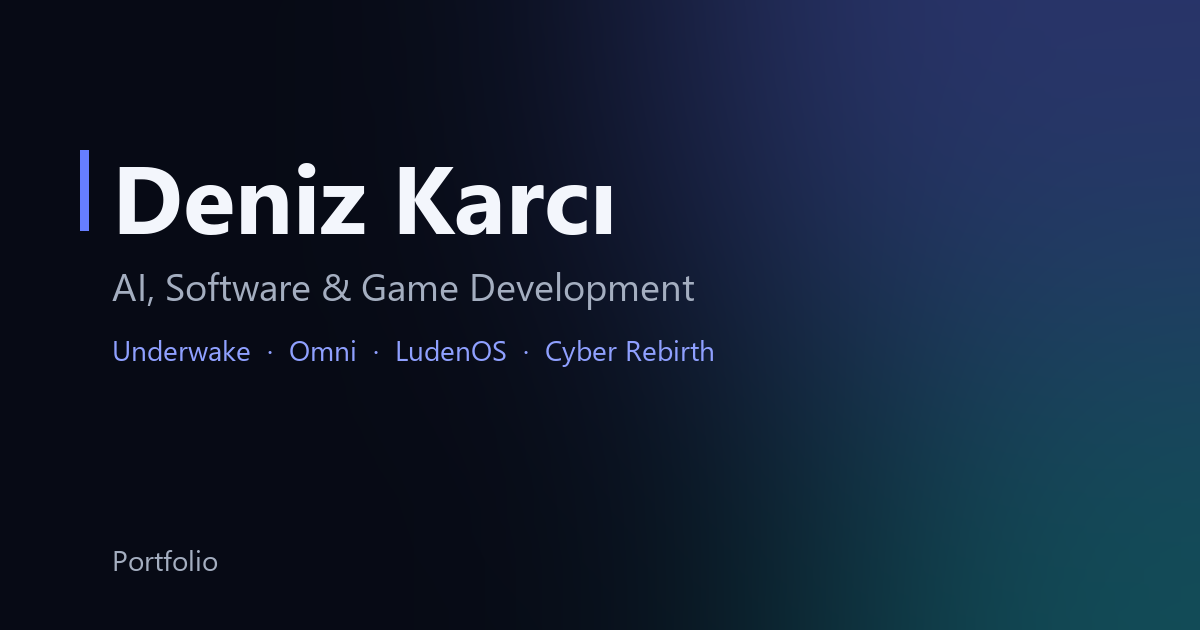
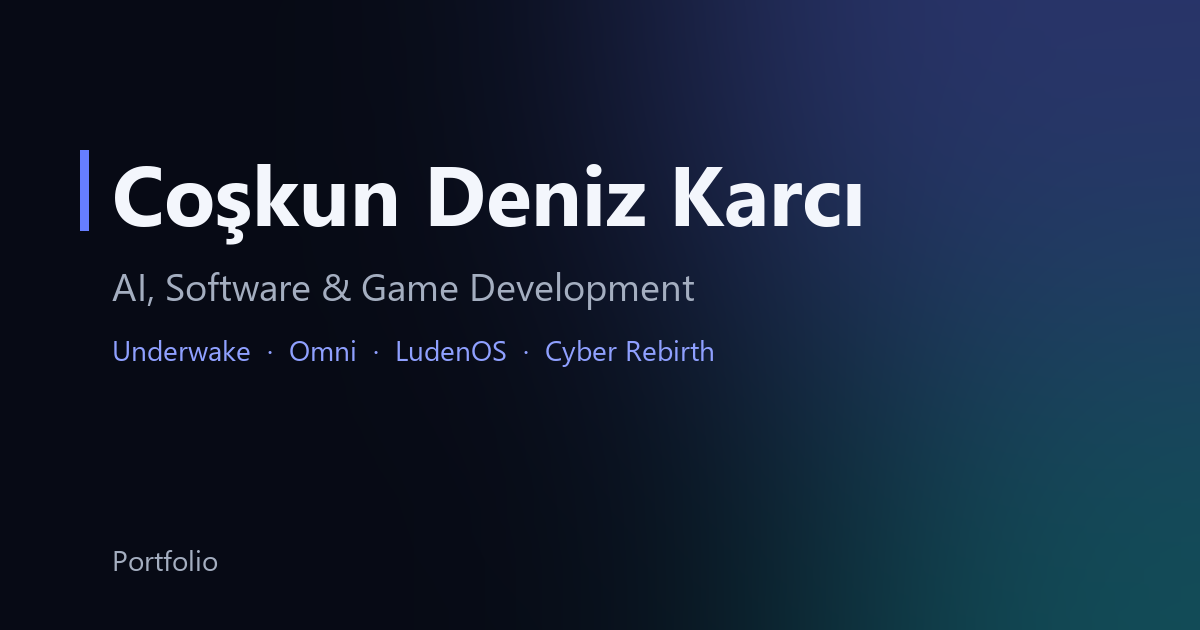
fix: update author name to Coşkun Deniz Karcı across site, metadata and open-graph

Changed region(s): [[0.0925, 0.2413, 0.74, 0.3921]]

diff --git a/src/locales/tr.ts b/src/locales/tr.ts
@@ -2,11 +2,11 @@ import type { Dictionary } from './types.ts';
 
 export const tr: Dictionary = {
   meta: {
-    homeTitle: 'Deniz Karcı — Yapay Zekâ, Yazılım ve Oyun Geliştirme Portfolyosu',
+    homeTitle: 'Coşkun Deniz Karcı — Yapay Zekâ, Yazılım ve Oyun Geliştirme Portfolyosu',
     homeDescription:
       'Coşkun Deniz Karcı\'nın portfolyosu: yazılım, oyun ve yapay zekâ destekli dijital ürünler geliştiren Dijital Oyun Tasarımı öğrencisi ve bağımsız üretici. Projeler: Underwake, Omni, LudenOS, Cyber Rebirth.',
-    projectTitle: '{project} — Proje | Deniz Karcı',
-    notFoundTitle: 'Sayfa bulunamadı | Deniz Karcı',
+    projectTitle: '{project} — Proje | Coşkun Deniz Karcı',
+    notFoundTitle: 'Sayfa bulunamadı | Coşkun Deniz Karcı',
     notFoundDescription: 'Bu sayfa mevcut değil. Portfolyo ana sayfasına dönün.',
     jobTitle: 'Dijital Oyun Tasarımı öğrencisi ve bağımsız yapay zekâ uygulama geliştiricisi',
     ogLocale: 'tr_TR',
@@ -38,11 +38,11 @@ export const tr: Dictionary = {
     eyebrow: 'Portfolyo · Dijital Oyun Tasarımı · Yapay Zekâ Geliştirme',
     headline: 'Yapay zekâ, kod ve tasarımla dijital deneyimler kuruyorum.',
     headlineAccent: 'Yapay zekâ, kod ve tasarımla',
-    sub: 'Ben Deniz Karcı — Dijital Oyun Tasarımı öğrencisi ve bağımsız bir üreticiyim. Yapay zekâ destekli geliştirme, interaktif deneyimler, yazılım ve görsel hikâye anlatımı üzerine çalışıyorum.',
+    sub: 'Ben Coşkun Deniz Karcı — Dijital Oyun Tasarımı öğrencisi ve bağımsız bir üreticiyim. Yapay zekâ destekli geliştirme, interaktif deneyimler, yazılım ve görsel hikâye anlatımı üzerine çalışıyorum.',
     ctaWork: 'Çalışmalarımı Keşfet',
     ctaContact: 'İletişime Geç',
     resumeLink: 'Özgeçmişi Gör',
-    photoAlt: 'Deniz Karcı portresi',
+    photoAlt: 'Coşkun Deniz Karcı portresi',
     tags: ['Yapay Zekâ Geliştirme', 'Oyun Tasarımı', 'Yaratıcı Teknoloji', 'LLM İş Akışları'],
     scroll: 'Kaydır',
   },
@@ -153,7 +153,7 @@ export const tr: Dictionary = {
   },
   footer: {
     rights: '© {year} Coşkun Deniz Karcı.',
-    built: 'Deniz Karcı tarafından React, TypeScript ve Tailwind CSS ile tasarlanıp geliştirildi.',
+    built: 'Coşkun Deniz Karcı tarafından React, TypeScript ve Tailwind CSS ile tasarlanıp geliştirildi.',
   },
   notFound: {
     eyebrow: 'Hata 404',

diff --git a/src/locales/en.ts b/src/locales/en.ts
@@ -1,11 +1,11 @@
 /** English dictionary. This file defines the shape every other language must follow. */
 export const en = {
   meta: {
-    homeTitle: 'Deniz Karcı — AI, Software & Game Development Portfolio',
+    homeTitle: 'Coşkun Deniz Karcı — AI, Software & Game Development Portfolio',
     homeDescription:
       'Portfolio of Coşkun Deniz Karcı: Digital Game Design student and independent creator building software, games and AI-assisted digital products. Projects: Underwake, Omni, LudenOS, Cyber Rebirth.',
-    projectTitle: '{project} — Project | Deniz Karcı',
-    notFoundTitle: 'Page not found | Deniz Karcı',
+    projectTitle: '{project} — Project | Coşkun Deniz Karcı',
+    notFoundTitle: 'Page not found | Coşkun Deniz Karcı',
     notFoundDescription: 'This page does not exist. Return to the portfolio home page.',
     jobTitle: 'Digital Game Design student & independent AI application developer',
     ogLocale: 'en_US',
@@ -37,11 +37,11 @@ export const en = {
     eyebrow: 'Portfolio · Digital Game Design · AI Development',
     headline: 'Building digital experiences through AI, code & design.',
     headlineAccent: 'AI, code & design.',
-    sub: 'I\'m Deniz Karcı — a Digital Game Design student and independent creator working across AI-powered development, interactive experiences, software and visual storytelling.',
+    sub: 'I\'m Coşkun Deniz Karcı — a Digital Game Design student and independent creator working across AI-powered development, interactive experiences, software and visual storytelling.',
     ctaWork: 'Explore My Work',
     ctaContact: 'Get in Touch',
     resumeLink: 'View Resume',
-    photoAlt: 'Portrait of Deniz Karcı',
+    photoAlt: 'Portrait of Coşkun Deniz Karcı',
     tags: ['AI Development', 'Game Design', 'Creative Technology', 'LLM Workflows'],
     scroll: 'Scroll',
   },
@@ -152,7 +152,7 @@ export const en = {
   },
   footer: {
     rights: '© {year} Coşkun Deniz Karcı.',
-    built: 'Designed and built by Deniz Karcı with React, TypeScript and Tailwind CSS.',
+    built: 'Designed and built by Coşkun Deniz Karcı with React, TypeScript and Tailwind CSS.',
   },
   notFound: {
     eyebrow: 'Error 404',

diff --git a/index.html b/index.html
@@ -8,14 +8,14 @@
     <meta name="author" content="Coşkun Deniz Karcı" />
     <link rel="icon" type="image/svg+xml" href="/favicon.svg" />
     <!--seo:start-->
-    <title>Deniz Karcı — Portfolio</title>
+    <title>Coşkun Deniz Karcı — Portfolio</title>
     <!--seo:end-->
   </head>
   <body>
     <div id="root"></div>
     <noscript>
       <div style="font-family: system-ui, sans-serif; color: #f3f6fc; background: #0b1020; padding: 2rem; min-height: 100vh">
-        <h1>Deniz Karcı — Portfolio</h1>
+        <h1>Coşkun Deniz Karcı — Portfolio</h1>
         <p>This portfolio needs JavaScript to run. · Bu portfolyonun çalışması için JavaScript gereklidir.</p>
         <p><a style="color: #8fa0ff" href="/en">English</a> · <a style="color: #8fa0ff" href="/tr">Türkçe</a></p>
       </div>

diff --git a/src/data/site.ts b/src/data/site.ts
@@ -6,7 +6,7 @@ import type { Lang } from './types.ts';
  */
 export const site = {
   name: 'Coşkun Deniz Karcı',
-  shortName: 'Deniz Karcı',
+  shortName: 'Coşkun Deniz Karcı',
 
   /**
    * PLACEHOLDER — the real production domain is not known yet.
